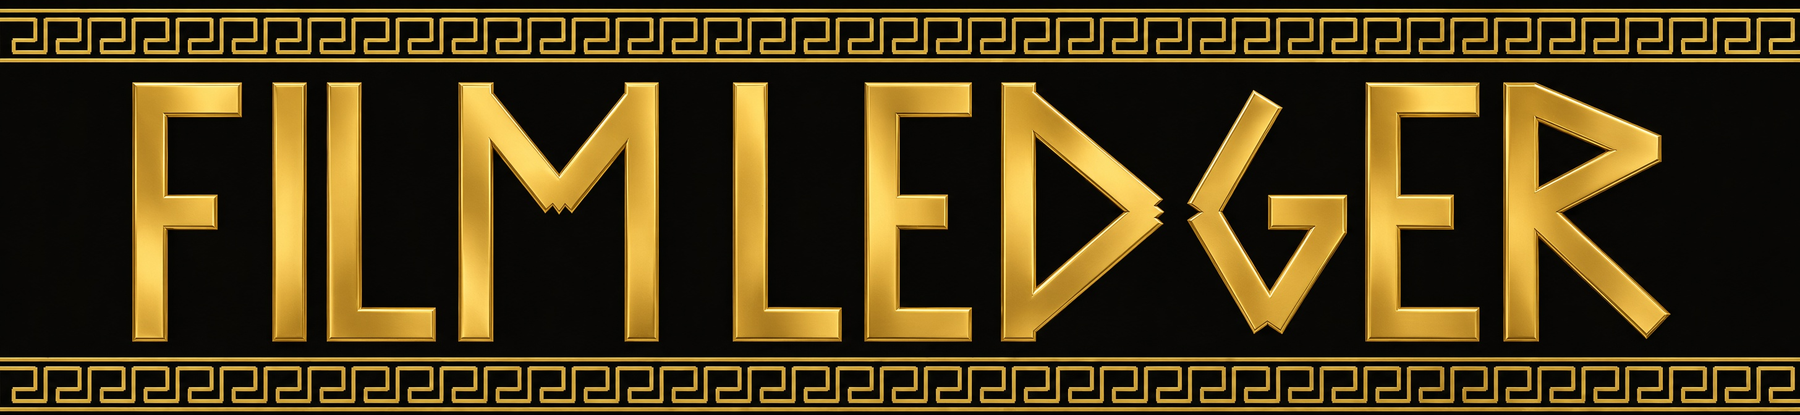
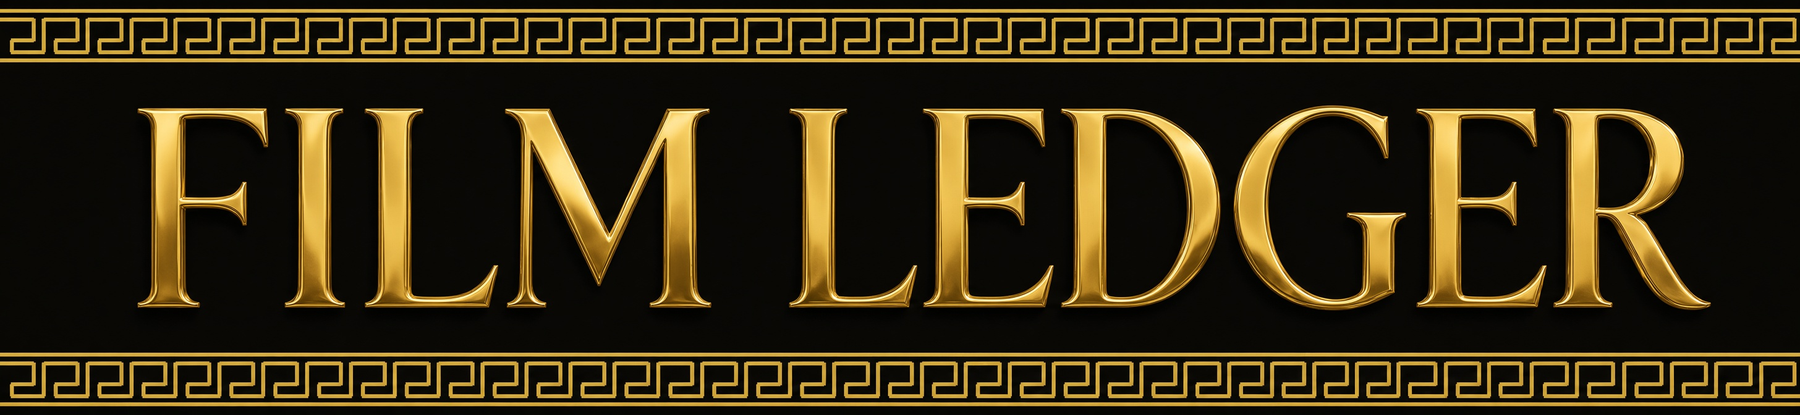
v6.14: classic font, same frieze
Header uses the classic metallic font with the same Greek key frieze.

diff --git a/index.html b/index.html
@@ -14,8 +14,8 @@
 <body>
   <div class="sticky-top">
     <div class="brand">
-      <img class="brand-mark" src="film-ledger-title.png?v=613" alt="Film Ledger">
-      <span class="brand-ver">v6.13</span>
+      <img class="brand-mark" src="film-ledger-title.png?v=614" alt="Film Ledger">
+      <span class="brand-ver">v6.14</span>
     </div>
 
     <input type="file" id="importFile" accept=".json" style="display:none;" onchange="importData(event)">
@@ -62,6 +62,6 @@
     <div id="least" class="tabs"></div>
   </div>
 
-  <script src="app.js?v=6013"></script>
+  <script src="app.js?v=6014"></script>
 </body>
 </html>

diff --git a/app.js b/app.js
@@ -2056,7 +2056,7 @@ function renderSettings() {
         ${ALL_TABS.map(([id, label]) => `<button type="button" data-tab="${id}" class="tab-toggle${visibleTabs().has(id) ? ' on' : ''}" onclick="toggleTabVisibility('${id}')">${escapeHtml(label)}</button>`).join('')}
       </div>
     </div>
-    <p class="backup-note" style="margin-top:14px;">Film Ledger v6.13</p>
+    <p class="backup-note" style="margin-top:14px;">Film Ledger v6.14</p>
   `;
 }
 

diff --git a/service-worker.js b/service-worker.js
@@ -1,11 +1,11 @@
-const CACHE_NAME = 'film-ledger-v6.13';
+const CACHE_NAME = 'film-ledger-v6.14';
 const urlsToCache = [
   './',
   './index.html',
   './styles.css',
-  './app.js?v=6013',
+  './app.js?v=6014',
   './manifest.json',
-  './film-ledger-title.png?v=613'
+  './film-ledger-title.png?v=614'
 ];
 
 self.addEventListener('install', event => {
